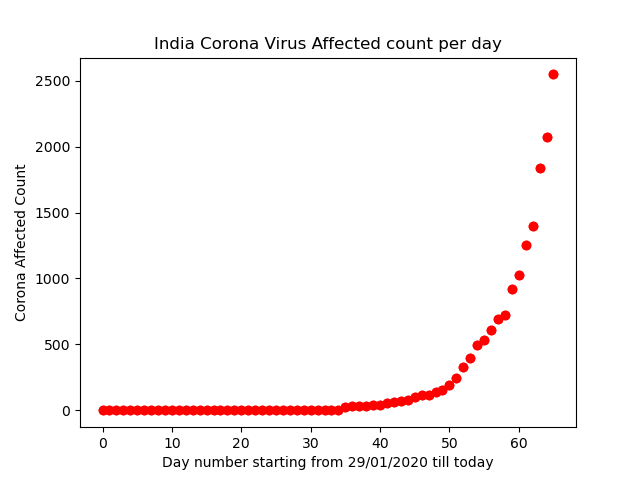
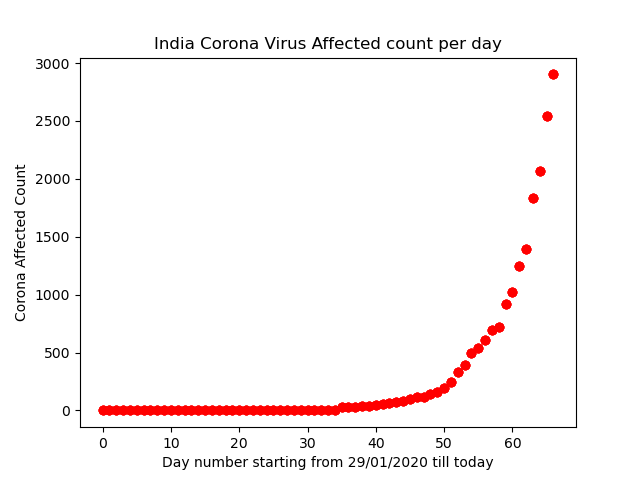
full0404

diff --git a/coronaIndia/plotMe.py b/coronaIndia/plotMe.py
@@ -62,7 +62,7 @@ def plotMeDiffSpain():
 
 def plotMeLatest() :
     y = [0,1,1,1,2,3,3,3,3,3,3,3,3,3,3,3,3,3,3,3,3,3,3,3,3,3,3,3,3,3,3,3,3,5,5,28,30,31,34,39,43,56,62,73,
-    82,102,113,119,142,156,194,244,330,396,499,536,606,694,724,917,1024,1251,1397,1834,2069,2547,2902]
+    82,102,113,119,142,156,194,244,330,396,499,536,606,694,724,917,1024,1251,1397,1834,2069,2547,3072]
     x = range(len(y))
     
     # x=['29/01/2020','30/01/2020','31/01/2020','01/02/2020','02/02/2020','03/02/2020','04/02/2020','05/02/2020','06/02/2020',
@@ -83,7 +83,7 @@ def plotMeLatest() :
 
 def plotMeInt():
     y = [0,1,1,1,2,3,3,3,3,3,3,3,3,3,3,3,3,3,3,3,3,3,3,3,3,3,3,3,3,3,3,3,3,5,5,28,30,31,34,39,43,56,62,73,
-    82,102,113,119,142,156,194,244,330,396,499,536,606,694,724,917,1024,1251,1397,1834,2069,2547,2902]
+    82,102,113,119,142,156,194,244,330,396,499,536,606,694,724,917,1024,1251,1397,1834,2069,2547,3072]
     x = list(range(len(y)))
     dates = ['29-01-20','30-01-20','31-01-20','01-02-20','02-02-20','03-02-20','04-02-20','05-02-20','06-02-20','07-02-20',
     '08-02-20','09-02-20','10-02-20','11-02-20','12-02-20','13-02-20','14-02-20','15-02-20','16-02-20','17-02-20','18-02-20',
